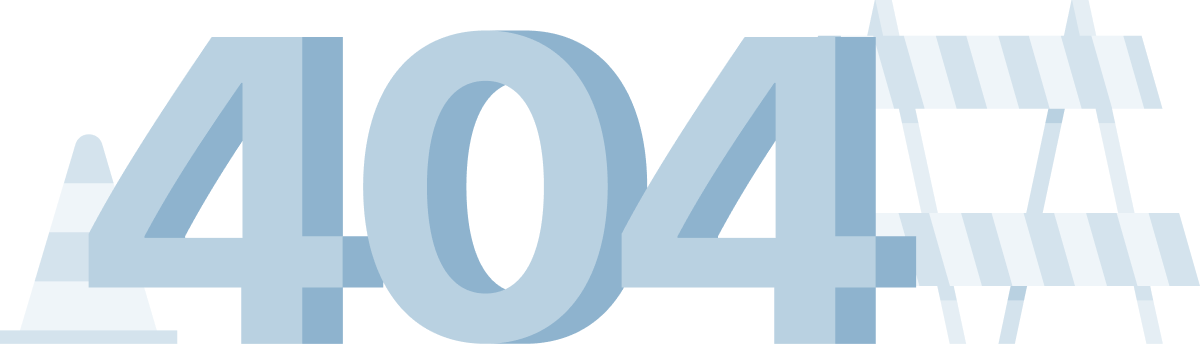
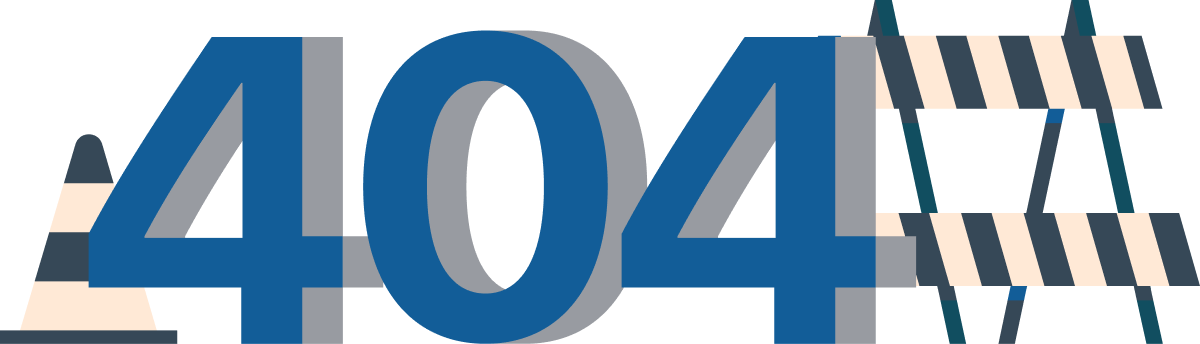
Revison Page & Assets

diff --git a/lib/Pages/detail_page.dart b/lib/Pages/detail_page.dart
@@ -81,13 +81,13 @@ class DetailPage extends StatelessWidget {
                                 Text.rich(
                                   TextSpan(
                                     text: '\$${space.price}',
-                                    style: purpleTextStyle.copyWith(
+                                    style: darkblueTextStyle.copyWith(
                                       fontSize: 16,
                                     ),
                                     children: [
                                       TextSpan(
                                         text: '/ month',
-                                        style: greyTextStyle.copyWith(
+                                        style: secondaryTextStyle.copyWith(
                                           fontSize: 16,
                                         ),
                                       ),
@@ -146,7 +146,7 @@ class DetailPage extends StatelessWidget {
                               total: space.numberOfBedrooms,
                             ),
                             FacilityItem(
-                              name: 'Big Lemari',
+                              name: 'cupboard',
                               imageUrl: 'assets/icon_cupboard.png',
                               total: space.numberOfCupboards,
                             ),
@@ -216,7 +216,7 @@ class DetailPage extends StatelessWidget {
                           children: [
                             Text(
                               '${space.address}\n${space.city}',
-                              style: greyTextStyle,
+                              style: secondaryTextStyle,
                             ),
                             InkWell(
                               onTap: () {
@@ -243,13 +243,13 @@ class DetailPage extends StatelessWidget {
                           onPressed: () {
                             launchUrl(space.phone);
                           },
-                          color: purpleColor,
+                          color: darkblueColor,
                           shape: RoundedRectangleBorder(
                             borderRadius: BorderRadius.circular(17),
                           ),
                           child: Text(
                             'Book Now',
-                            style: whiteTextStyle.copyWith(
+                            style: creamTextStyle.copyWith(
                               fontSize: 18,
                             ),
                           ),

diff --git a/lib/Widgets/space_card.dart b/lib/Widgets/space_card.dart
@@ -43,7 +43,7 @@ class SpaceCard extends StatelessWidget {
                       width: 70,
                       height: 30,
                       decoration: BoxDecoration(
-                          color: purpleColor,
+                          color: darkblueColor,
                           borderRadius: BorderRadius.only(
                             bottomLeft: Radius.circular(25),
                           )),
@@ -58,7 +58,7 @@ class SpaceCard extends StatelessWidget {
                           ),
                           Text(
                             '${space.rating}/5',
-                            style: whiteTextStyle.copyWith(
+                            style: creamTextStyle.copyWith(
                               fontSize: 13,
                             ),
                           ),
@@ -88,13 +88,13 @@ class SpaceCard extends StatelessWidget {
               Text.rich(
                 TextSpan(
                   text: '\$${space.price}',
-                  style: purpleTextStyle.copyWith(
+                  style: darkblueTextStyle.copyWith(
                     fontSize: 16,
                   ),
                   children: [
                     TextSpan(
                       text: '/ month',
-                      style: greyTextStyle.copyWith(
+                      style: secondaryTextStyle.copyWith(
                         fontSize: 16,
                       ),
                     ),
@@ -106,7 +106,7 @@ class SpaceCard extends StatelessWidget {
               ),
               Text(
                 '${space.city}, ${space.country}',
-                style: greyTextStyle,
+                style: secondaryTextStyle,
               ),
             ],
           )

diff --git a/lib/theme.dart b/lib/theme.dart
@@ -1,11 +1,14 @@
 import 'package:flutter/material.dart';
 import 'package:google_fonts/google_fonts.dart';
 
-Color purpleColor = Color(0xff5843BE);
-Color orangeColor = Color(0xffFF9376);
-Color blackColor = Color(0xff000000);
-Color whiteColor = Color(0xffFFFFFF);
-Color greyColor = Color(0xff82868E);
+Color darkblueColor = Color(0xff364857);
+Color navyblueColor = Color(0xff125D98);
+Color blackColor = Color(0xff343A40);
+Color whiteColor = Color(0xffDDDDDD);
+Color greyColor = Color(0xff989BA1);
+Color creamColor = Color(0xffFFE9D6);
+Color greendarkColor = Color(0xff114E60);
+Color redColor = Color(0xffCB3737);
 
 double edge = 24;
 
@@ -14,22 +17,27 @@ TextStyle blackTextStyle = GoogleFonts.poppins(
   color: blackColor,
 );
 
-TextStyle whiteTextStyle = GoogleFonts.poppins(
-  fontWeight: FontWeight.w500,
-  color: whiteColor,
-);
-
 TextStyle greyTextStyle = GoogleFonts.poppins(
   fontWeight: FontWeight.w300,
   color: greyColor,
 );
 
-TextStyle purpleTextStyle = GoogleFonts.poppins(
-  fontWeight: FontWeight.w500,
-  color: purpleColor,
-);
-
 TextStyle regularTextStyle = GoogleFonts.poppins(
   fontWeight: FontWeight.w400,
   color: blackColor,
+);
+
+TextStyle secondaryTextStyle = GoogleFonts.poppins(
+  fontWeight: FontWeight.w400,
+  color: greendarkColor,
+);
+
+TextStyle darkblueTextStyle = GoogleFonts.poppins(
+  fontWeight: FontWeight.w400,
+  color: darkblueColor,
+);
+
+TextStyle creamTextStyle = GoogleFonts.poppins(
+  fontWeight: FontWeight.w400,
+  color: creamColor,
 );

diff --git a/lib/Pages/splash_page.dart b/lib/Pages/splash_page.dart
@@ -19,7 +19,7 @@ class SplashPage extends StatelessWidget {
                 child: Image.asset('assets/splash_image.png'),
               ),
               Padding(
-                padding: const EdgeInsets.only(
+                padding: EdgeInsets.only(
                   top: 50,
                   left: 30,
                 ),
@@ -49,7 +49,7 @@ class SplashPage extends StatelessWidget {
                     ),
                     Text(
                       'Stop membuang banyak waktu\npada tempat yang tidak habitable',
-                      style: greyTextStyle.copyWith(
+                      style: secondaryTextStyle.copyWith(
                         fontSize: 16,
                       ),
                     ),
@@ -68,13 +68,13 @@ class SplashPage extends StatelessWidget {
                             ),
                           );
                         },
-                        color: purpleColor,
+                        color: darkblueColor,
                         shape: RoundedRectangleBorder(
                           borderRadius: BorderRadius.circular(17),
                         ),
                         child: Text(
                           'Explore Now',
-                          style: whiteTextStyle.copyWith(
+                          style: creamTextStyle.copyWith(
                             fontSize: 18,
                           ),
                         ),

diff --git a/lib/Pages/error_page.dart b/lib/Pages/error_page.dart
@@ -34,7 +34,7 @@ class ErrorPage extends StatelessWidget {
               ),
               Text(
                 'Seems like the page that you were\nrequested is already gone',
-                style: greyTextStyle.copyWith(
+                style: secondaryTextStyle.copyWith(
                   fontSize: 16,
                 ),
                 textAlign: TextAlign.center,
@@ -54,13 +54,13 @@ class ErrorPage extends StatelessWidget {
                         ),
                         (route) => false);
                   },
-                  color: purpleColor,
+                  color: darkblueColor,
                   shape: RoundedRectangleBorder(
                     borderRadius: BorderRadius.circular(17),
                   ),
                   child: Text(
                     'Back to Home',
-                    style: whiteTextStyle.copyWith(
+                    style: creamTextStyle.copyWith(
                       fontSize: 18,
                     ),
                   ),

diff --git a/lib/Widgets/city_card.dart b/lib/Widgets/city_card.dart
@@ -16,7 +16,7 @@ class CityCard extends StatelessWidget {
       child: Container(
         height: 150,
         width: 120,
-        color: Color(0xffF6F7F8),
+        color: creamColor,
         child: Column(
           children: [
             Stack(
@@ -34,7 +34,7 @@ class CityCard extends StatelessWidget {
                           width: 50,
                           height: 30,
                           decoration: BoxDecoration(
-                              color: purpleColor,
+                              color: darkblueColor,
                               borderRadius: BorderRadius.only(
                                 bottomLeft: Radius.circular(25),
                               )),

diff --git a/lib/Widgets/facility_item.dart b/lib/Widgets/facility_item.dart
@@ -26,13 +26,13 @@ class FacilityItem extends StatelessWidget {
         Text.rich(
           TextSpan(
             text: '$total',
-            style: purpleTextStyle.copyWith(
+            style: darkblueTextStyle.copyWith(
               fontSize: 14,
             ),
             children: [
               TextSpan(
                 text: ' $name',
-                style: greyTextStyle.copyWith(
+                style: secondaryTextStyle.copyWith(
                   fontSize: 14,
                 ),
               ),

diff --git a/lib/Widgets/tips_card.dart b/lib/Widgets/tips_card.dart
@@ -35,7 +35,7 @@ class TipsCard extends StatelessWidget {
             ),
             Text(
               'Updated ${tips.updateAt}',
-              style: greyTextStyle,
+              style: secondaryTextStyle,
             ),
           ],
         ),
@@ -44,7 +44,7 @@ class TipsCard extends StatelessWidget {
           onPressed: () {},
           icon: Icon(
             Icons.chevron_right,
-            color: greyColor,
+            color: greendarkColor,
           ),
         ),
       ],

diff --git a/lib/Widgets/bottom_navbar_item.dart b/lib/Widgets/bottom_navbar_item.dart
@@ -29,7 +29,7 @@ class BottomnavbarItem extends StatelessWidget {
                 width: 30,
                 height: 2,
                 decoration: BoxDecoration(
-                  color: purpleColor,
+                  color: darkblueColor,
                   borderRadius: BorderRadius.vertical(
                     top: Radius.circular(1000),
                   ),

diff --git a/lib/Pages/home_page.dart b/lib/Pages/home_page.dart
@@ -45,7 +45,7 @@ class HomePage extends StatelessWidget {
               padding: EdgeInsets.only(left: edge),
               child: Text(
                 'Mencari kosan yang cozy',
-                style: greyTextStyle.copyWith(
+                style: secondaryTextStyle.copyWith(
                   fontSize: 16,
                 ),
               ),
